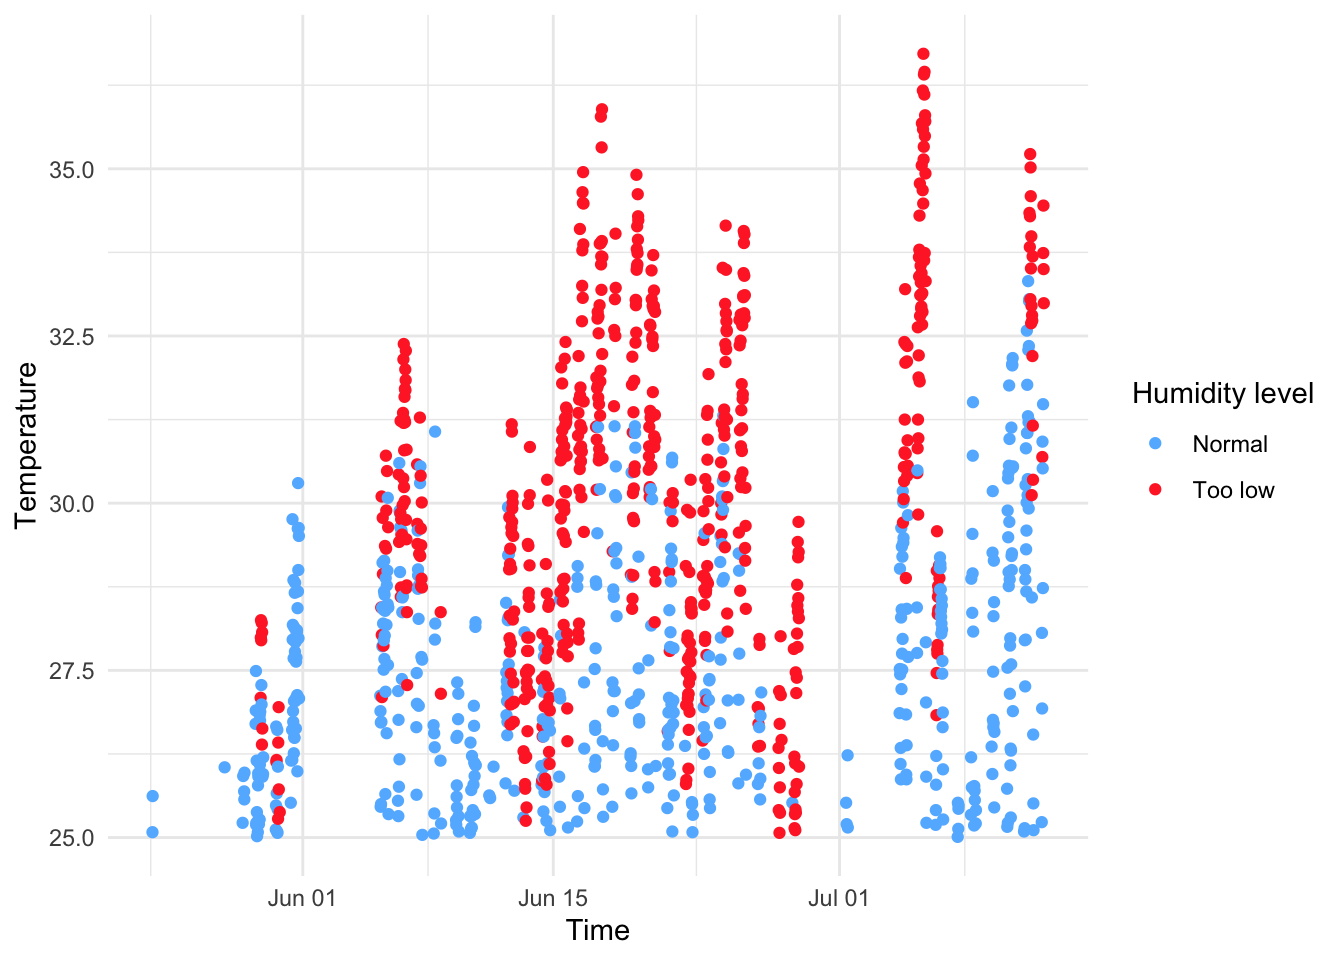
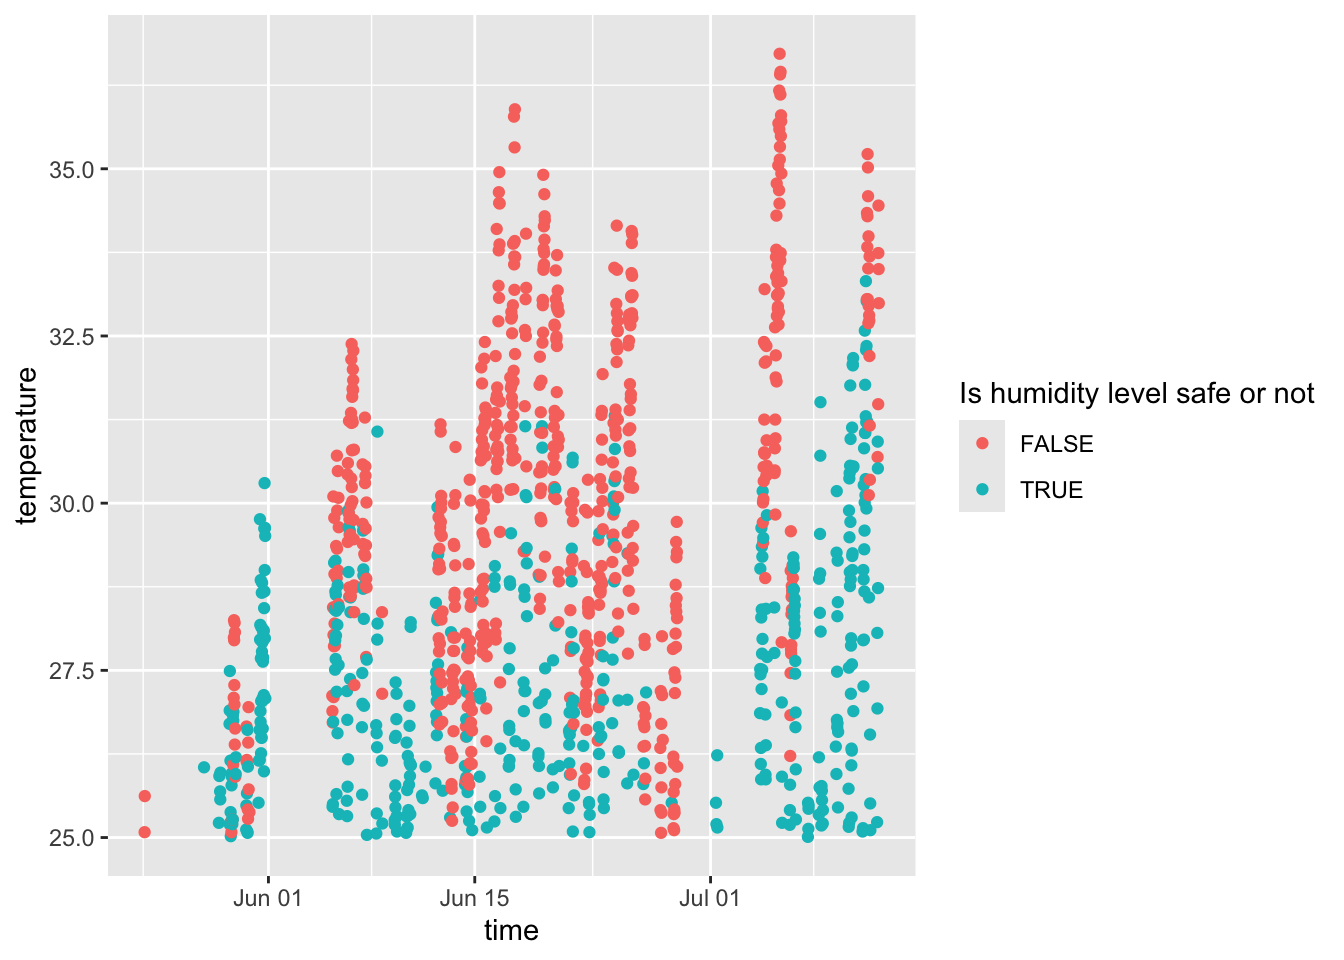
Sending code

diff --git a/_site/artik.html b/_site/artik.html
@@ -20,6 +20,40 @@ ul.task-list li input[type="checkbox"] {
   margin: 0 0.8em 0.2em -1em; /* quarto-specific, see https://github.com/quarto-dev/quarto-cli/issues/4556 */ 
   vertical-align: middle;
 }
+/* CSS for syntax highlighting */
+pre > code.sourceCode { white-space: pre; position: relative; }
+pre > code.sourceCode > span { line-height: 1.25; }
+pre > code.sourceCode > span:empty { height: 1.2em; }
+.sourceCode { overflow: visible; }
+code.sourceCode > span { color: inherit; text-decoration: inherit; }
+div.sourceCode { margin: 1em 0; }
+pre.sourceCode { margin: 0; }
+@media screen {
+div.sourceCode { overflow: auto; }
+}
+@media print {
+pre > code.sourceCode { white-space: pre-wrap; }
+pre > code.sourceCode > span { display: inline-block; text-indent: -5em; padding-left: 5em; }
+}
+pre.numberSource code
+  { counter-reset: source-line 0; }
+pre.numberSource code > span
+  { position: relative; left: -4em; counter-increment: source-line; }
+pre.numberSource code > span > a:first-child::before
+  { content: counter(source-line);
+    position: relative; left: -1em; text-align: right; vertical-align: baseline;
+    border: none; display: inline-block;
+    -webkit-touch-callout: none; -webkit-user-select: none;
+    -khtml-user-select: none; -moz-user-select: none;
+    -ms-user-select: none; user-select: none;
+    padding: 0 4px; width: 4em;
+  }
+pre.numberSource { margin-left: 3em;  padding-left: 4px; }
+div.sourceCode
+  {   }
+@media screen {
+pre > code.sourceCode > span > a:first-child::before { text-decoration: underline; }
+}
 </style>
 
 
@@ -179,8 +213,22 @@ ul.task-list li input[type="checkbox"] {
 </header>
 
 
+<div class="cell">
+<div class="sourceCode cell-code" id="cb1"><pre class="sourceCode r code-with-copy"><code class="sourceCode r"><span id="cb1-1"><a href="#cb1-1" aria-hidden="true" tabindex="-1"></a><span class="fu">library</span>(tidyverse)</span>
+<span id="cb1-2"><a href="#cb1-2" aria-hidden="true" tabindex="-1"></a>artik <span class="ot">&lt;-</span> <span class="fu">read_csv</span>(<span class="st">"artik.csv"</span>)</span></code><button title="Copy to Clipboard" class="code-copy-button"><i class="bi"></i></button></pre></div>
+</div>
 <p>Temperature and Humidity in Artik</p>
 <div class="cell">
+<div class="sourceCode cell-code" id="cb2"><pre class="sourceCode r code-with-copy"><code class="sourceCode r"><span id="cb2-1"><a href="#cb2-1" aria-hidden="true" tabindex="-1"></a><span class="fu">library</span>(ggplot2)</span>
+<span id="cb2-2"><a href="#cb2-2" aria-hidden="true" tabindex="-1"></a><span class="fu">library</span>(dplyr)</span>
+<span id="cb2-3"><a href="#cb2-3" aria-hidden="true" tabindex="-1"></a><span class="fu">library</span>(patchwork)</span>
+<span id="cb2-4"><a href="#cb2-4" aria-hidden="true" tabindex="-1"></a>p1 <span class="ot">&lt;-</span> artik <span class="sc">|&gt;</span> <span class="fu">drop_na</span>() <span class="sc">|&gt;</span> <span class="fu">ggplot</span>(<span class="fu">aes</span>(<span class="at">x=</span>time, <span class="at">y=</span>temperature)) <span class="sc">+</span> <span class="fu">geom_line</span>(<span class="at">color=</span><span class="st">"darkblue"</span>) <span class="sc">+</span> <span class="fu">geom_smooth</span>(<span class="at">color=</span><span class="st">"white"</span>) <span class="sc">+</span> <span class="fu">theme_minimal</span>() <span class="sc">+</span> <span class="fu">labs</span>(<span class="at">x=</span><span class="cn">NULL</span>, <span class="at">y=</span><span class="st">"Temperatue"</span>)</span>
+<span id="cb2-5"><a href="#cb2-5" aria-hidden="true" tabindex="-1"></a></span>
+<span id="cb2-6"><a href="#cb2-6" aria-hidden="true" tabindex="-1"></a>p2 <span class="ot">&lt;-</span> artik <span class="sc">|&gt;</span> <span class="fu">drop_na</span>() <span class="sc">|&gt;</span> <span class="fu">ggplot</span>(<span class="fu">aes</span>(<span class="at">x=</span>time, <span class="at">y=</span>humidity)) <span class="sc">+</span> <span class="fu">geom_line</span>(<span class="fu">aes</span>(<span class="at">color=</span><span class="fu">if_else</span>(humidity<span class="sc">&lt;</span><span class="dv">30</span>,<span class="st">"too_low"</span>, <span class="st">"normal"</span>)))<span class="sc">+</span> <span class="fu">scale_color_manual</span>(<span class="at">values =</span> <span class="fu">c</span>(<span class="st">"too_low"</span><span class="ot">=</span><span class="st">"red"</span>, <span class="at">normal=</span><span class="st">"orange"</span>), <span class="at">guide=</span><span class="st">"none"</span>) <span class="sc">+</span> <span class="fu">theme_minimal</span>() <span class="sc">+</span> <span class="fu">labs</span>(<span class="at">x=</span><span class="st">"Time"</span>, <span class="at">y=</span><span class="st">"Humidity"</span>)</span>
+<span id="cb2-7"><a href="#cb2-7" aria-hidden="true" tabindex="-1"></a></span>
+<span id="cb2-8"><a href="#cb2-8" aria-hidden="true" tabindex="-1"></a>combined_plot <span class="ot">&lt;-</span> p1<span class="sc">/</span>p2</span>
+<span id="cb2-9"><a href="#cb2-9" aria-hidden="true" tabindex="-1"></a></span>
+<span id="cb2-10"><a href="#cb2-10" aria-hidden="true" tabindex="-1"></a><span class="fu">print</span>(combined_plot)</span></code><button title="Copy to Clipboard" class="code-copy-button"><i class="bi"></i></button></pre></div>
 <div class="cell-output-display">
 <div>
 <figure class="figure">
@@ -188,24 +236,11 @@ ul.task-list li input[type="checkbox"] {
 </figure>
 </div>
 </div>
+<div class="sourceCode cell-code" id="cb3"><pre class="sourceCode r code-with-copy"><code class="sourceCode r"><span id="cb3-1"><a href="#cb3-1" aria-hidden="true" tabindex="-1"></a>artik <span class="sc">|&gt;</span> <span class="fu">drop_na</span>() <span class="sc">|&gt;</span> <span class="fu">mutate</span>(<span class="at">humidity_level=</span>humidity<span class="sc">&gt;</span><span class="dv">30</span>, <span class="at">.before=</span><span class="dv">1</span>) <span class="sc">|&gt;</span> <span class="fu">select</span>(humidity_level, time, temperature, humidity) <span class="sc">|&gt;</span> <span class="fu">filter</span>(temperature<span class="sc">&gt;</span><span class="dv">25</span>) <span class="sc">|&gt;</span> <span class="fu">ggplot</span>(<span class="fu">aes</span>(<span class="at">x=</span>time, <span class="at">y=</span>temperature)) <span class="sc">+</span> <span class="fu">geom_point</span>(<span class="fu">aes</span>(<span class="at">color=</span>humidity_level)) <span class="sc">+</span> <span class="fu">labs</span>(<span class="at">color=</span><span class="st">"Is humidity level safe or not"</span>)</span></code><button title="Copy to Clipboard" class="code-copy-button"><i class="bi"></i></button></pre></div>
 <div class="cell-output-display">
 <div>
 <figure class="figure">
 <p><img src="artik_files/figure-html/unnamed-chunk-2-2.png" class="img-fluid figure-img" width="672"></p>
-</figure>
-</div>
-</div>
-<div class="cell-output-display">
-<div>
-<figure class="figure">
-<p><img src="artik_files/figure-html/unnamed-chunk-2-3.png" class="img-fluid figure-img" width="672"></p>
-</figure>
-</div>
-</div>
-<div class="cell-output-display">
-<div>
-<figure class="figure">
-<p><img src="artik_files/figure-html/unnamed-chunk-2-4.png" class="img-fluid figure-img" width="672"></p>
 </figure>
 </div>
 </div>
